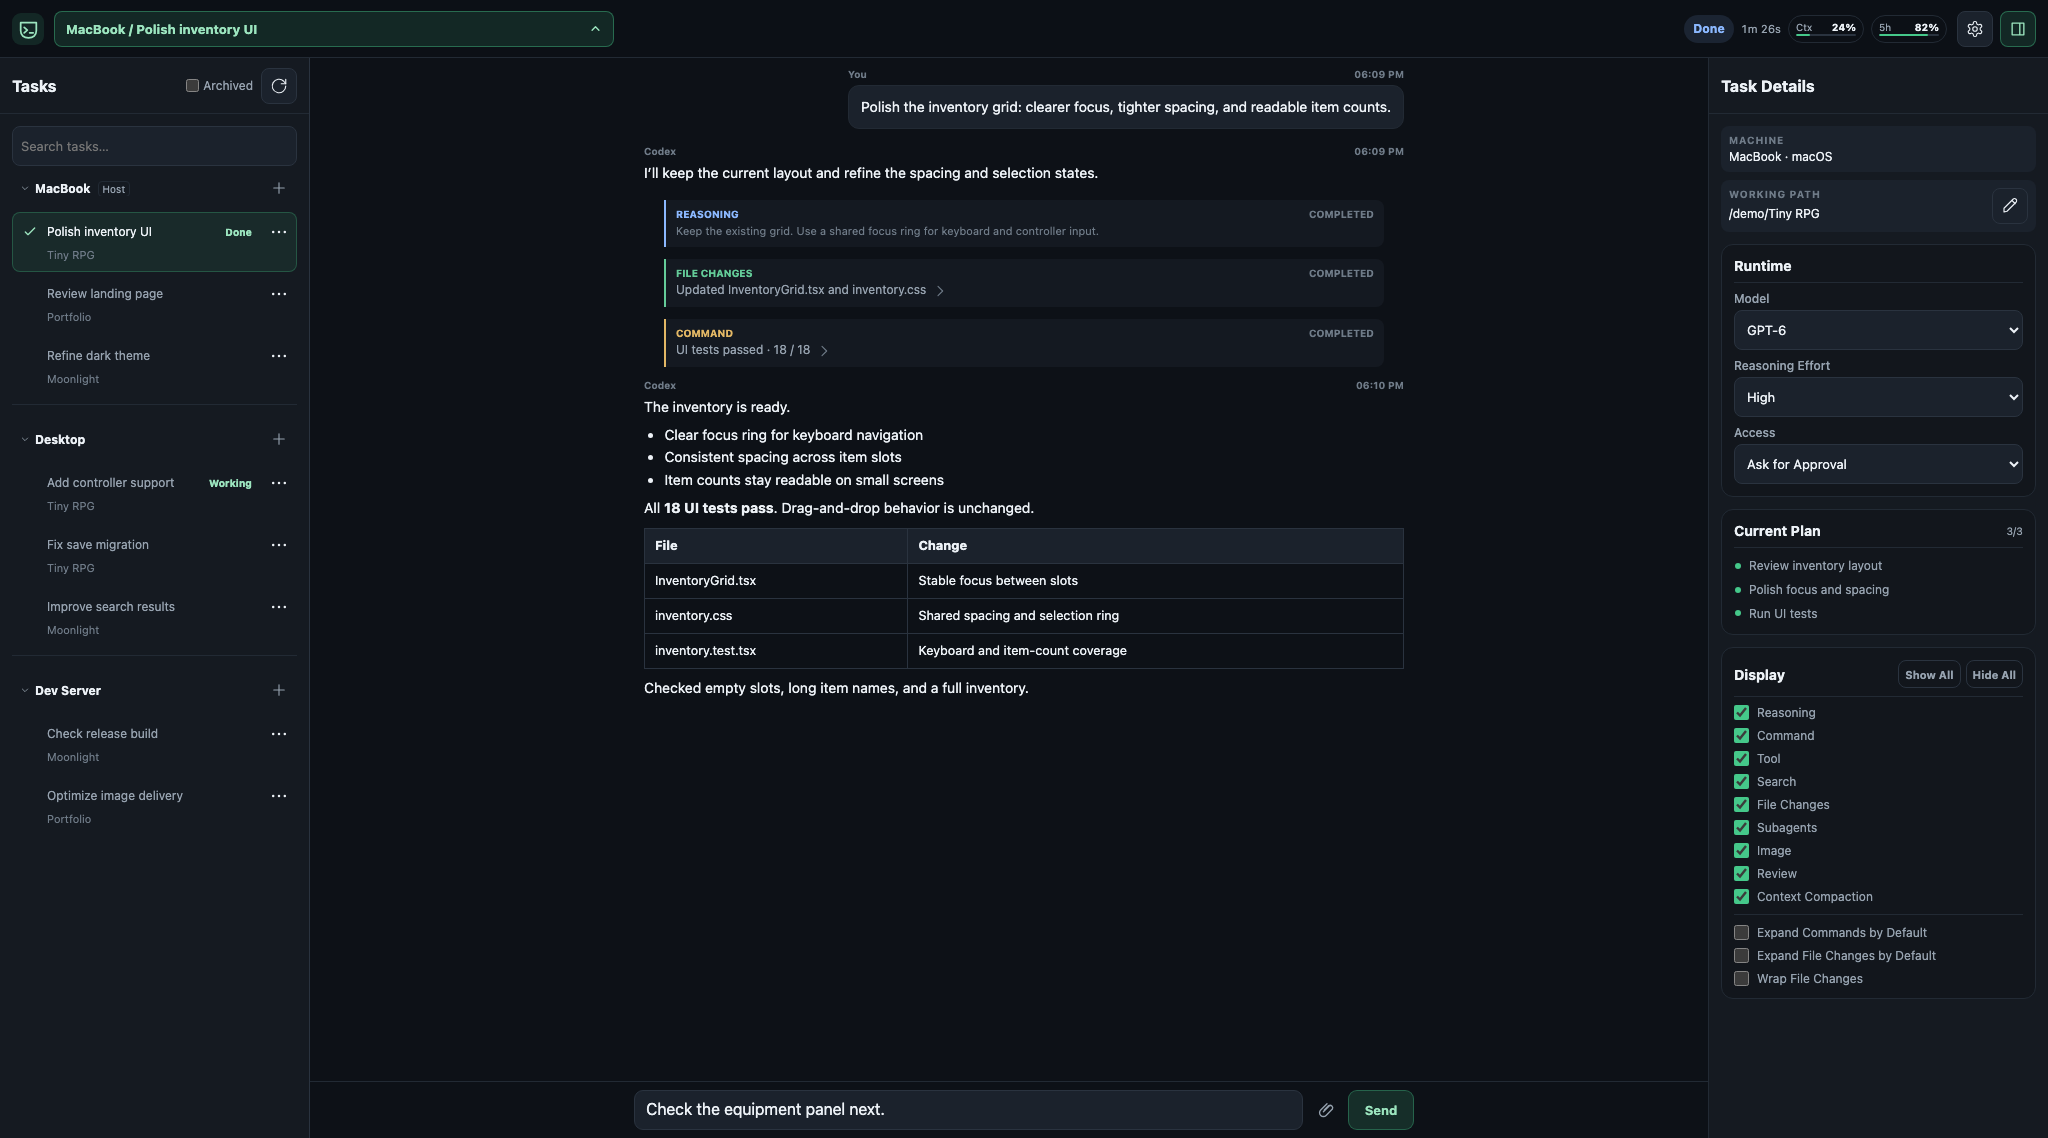
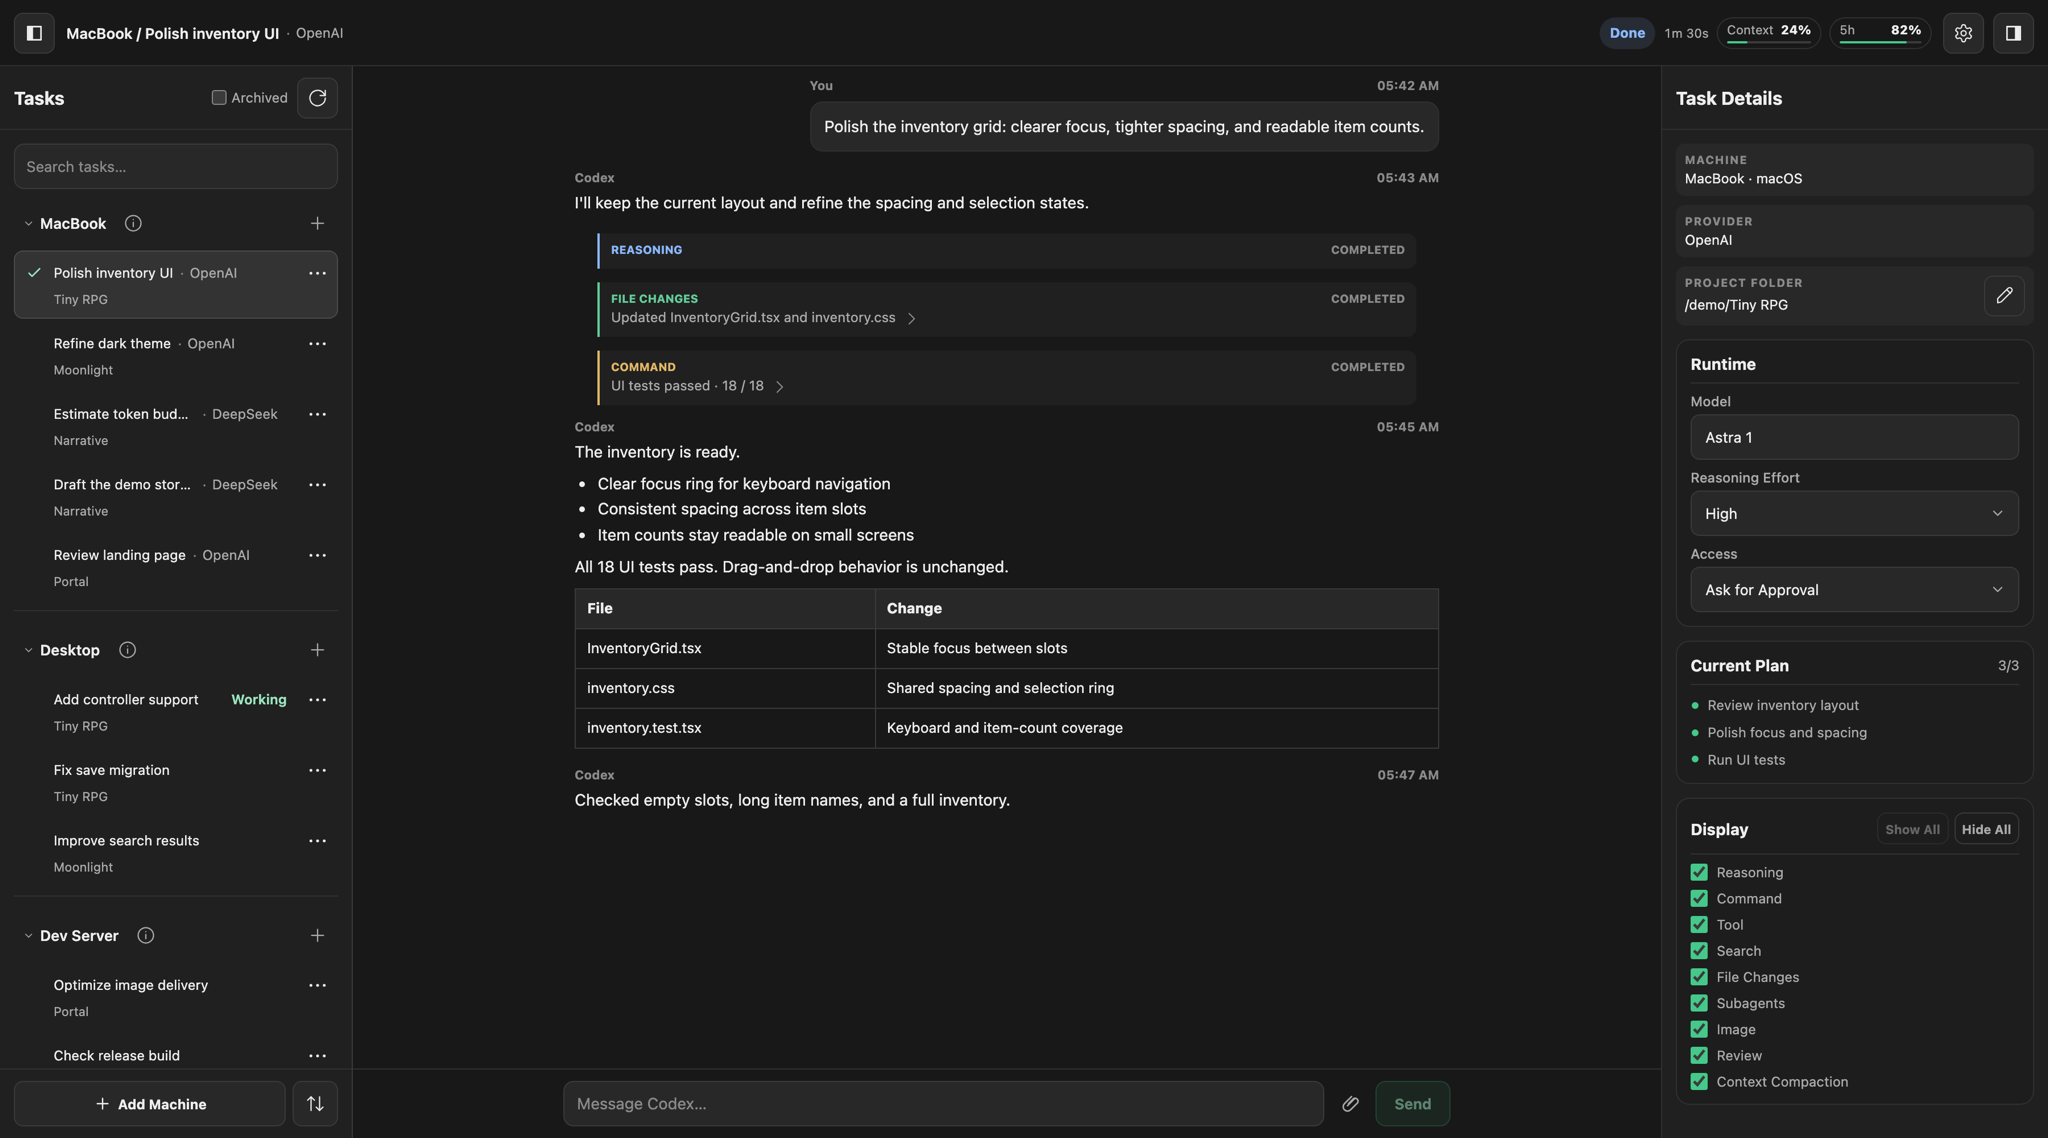
Batch 3: correct stale docs/comments and refresh promo screenshots
- README/CONTRIBUTING: New Task starting settings are remembered per runtime in
  this browser (not per machine); folder prefill resolves from that runtime.
- docs/deepseek.md: drop the stale Host badge / bracketed provider badge wording;
  one group per local physical machine with OpenAI/DeepSeek as plain secondary
  provider metadata and a Provider choice in New Task.
- public/app.js: comment-only, 'badge' -> 'label' for unknown providers.
- docs/ui-style-guide.md: login PIN exception now scopes 40px to ordinary
  single-line text inputs.
- Refresh desktop-tasks.png and mobile-working.png from the current UI with
  synthetic demo data; keep macos-menu.png (still matches the current menu).

diff --git a/public/app.js b/public/app.js
@@ -741,7 +741,7 @@ function threadLabel(thread) {
   return thread.name || "Untitled Task";
 }
 
-// Providers are explicit metadata; an unknown provider shows no badge instead of a guess.
+// Providers are explicit metadata; an unknown provider shows no label instead of a guess.
 function providerName(provider) {
   if (provider === "deepseek") return "DeepSeek";
   if (provider === "openai") return "OpenAI";

diff --git a/README.md b/README.md
@@ -42,7 +42,7 @@ While a turn is active, normal **Send** queues input; answering an async questio
 
 Text, image, and file drafts are task-scoped and kept only in browser memory: up to eight recent non-empty drafts. They do not survive a page reload.
 
-**New Task** offers explicit model, reasoning-effort, and access choices. A successful creation without a settings warning remembers those choices per machine in this browser. The Project Folder prefills from that machine's selected task when available. Leaving it blank uses the runtime user's home directory on the selected machine; failure to resolve that home directory asks for an explicit folder.
+**New Task** offers explicit model, reasoning-effort, and access choices. A successful creation without a settings warning remembers those choices per runtime in this browser. The Project Folder prefills from that runtime's selected task when available. Leaving it blank uses the runtime user's home directory on the selected runtime; failure to resolve that home directory asks for an explicit folder.
 
 At widths of **1100px and above**, successful task switching and New Task creation focus the message composer. Narrow layouts leave it unfocused to avoid opening the software keyboard. **Escape** dismisses narrow Tasks/Info overlays; wide pinned sidebars remain open. Dialogs, Settings, and the fullscreen composer handle Escape before sidebars.
 

diff --git a/docs/deepseek.md b/docs/deepseek.md
@@ -1,6 +1,6 @@
 # Optional local DeepSeek runtime
 
-DeepSeek runs **through Codex app-server**, alongside the existing OpenAI runtimes. It is macOS-only and appears only when a valid credential exists. The task list shows one `<local machine name> [Host]` group for the Mac; when it has more than one runtime, each task row carries a small `[OpenAI]` or `[DeepSeek]` badge, and **New Task** offers a Provider choice. The machine name is never rewritten; the provider is separate metadata, and the runtimes keep their own ids, tasks, drafts, queues, receipts and sessions. There is no browser-to-DeepSeek connection, automatic failover, or conversation migration.
+DeepSeek runs **through Codex app-server**, alongside the existing OpenAI runtimes. It is macOS-only and appears only when a valid credential exists. The task list shows one group per local physical machine; when that Mac exposes more than one provider, each task row shows OpenAI/DeepSeek as plain secondary provider metadata rather than a badge. **New Task** exposes a Provider choice in the same case. The machine name is never rewritten; the provider is separate metadata, and the runtimes keep their own ids, tasks, drafts, queues, receipts and sessions. There is no browser-to-DeepSeek connection, automatic failover, or conversation migration.
 
 ## When DeepSeek appears
 

diff --git a/CONTRIBUTING.md b/CONTRIBUTING.md
@@ -14,7 +14,7 @@ Only rebuild the native app with `zsh macos/build-app.sh` when its source change
 
 ### Behaviors to preserve
 
-- New Task sends explicit starting settings and remembers successful choices per machine/browser. Folder prefill uses the selected task on that machine; a blank folder resolves to that runtime user's home.
+- New Task sends explicit starting settings and remembers successful choices per runtime/browser. Folder prefill uses the selected task on that runtime; a blank folder resolves to that runtime user's home.
 - Wide task navigation/creation focuses the composer; narrow layouts do not. Escape closes narrow sidebar overlays, while wide pinned sidebars remain open.
 - Text, image, and file drafts are task-scoped, in memory, limited to eight non-empty drafts, and lost on reload. Staged files live in the target machine's temp directory; Pocket has no automatic deletion or expiry policy.
 - Tasks Unavailable is a catalog failure on a connected transport. Offline is a transport failure. Keep the 15-second SSH probes/three-miss limit separate from the five-second catalog budget.

diff --git a/docs/ui-style-guide.md b/docs/ui-style-guide.md
@@ -207,7 +207,8 @@ status paragraph is hidden. Copy rules already settled on:
 - `--control-height` (40px) governs action rows; standalone secondary/primary buttons keep smaller
   defaults until a container normalizes them.
 - The login PIN field (`.login-card input`) is 56px tall, not `--control-height`, because it renders
-  1.55rem centred digits with a reserved reveal control. Every other text field uses 40px.
+  1.55rem centred digits with a reserved reveal control. Every other ordinary single-line text input
+  uses 40px.
 - The image viewer and its close button stay dark in both themes, with their own focus/hover colours.
 - `full access` in the Access select and the `working`/`waiting`/`failed` phase pills reuse semantic
   colours as persistent state, not as decoration.
